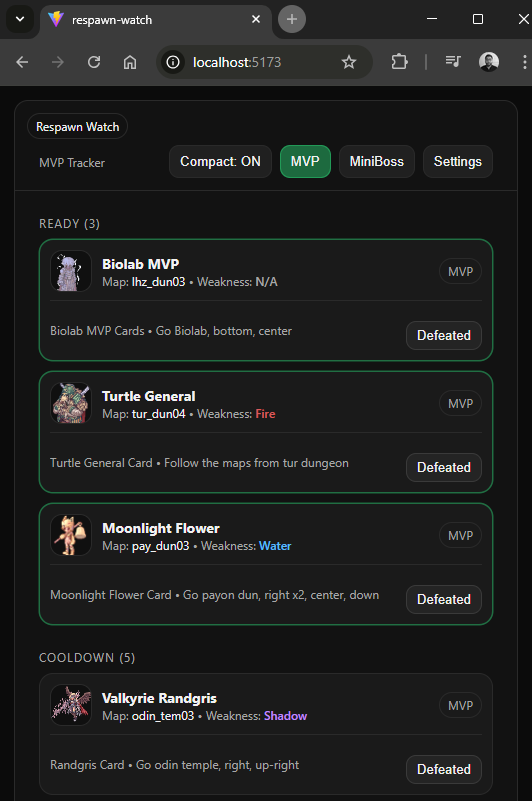
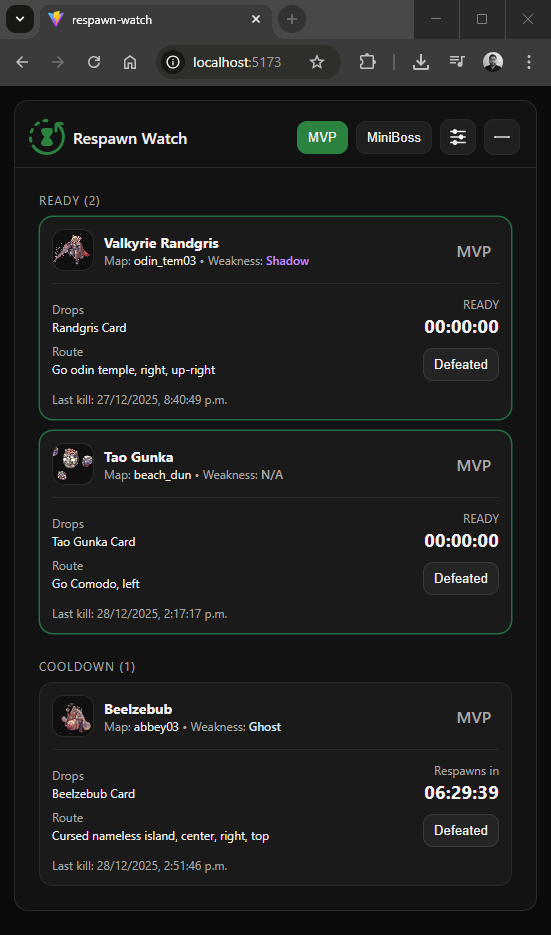
fix: topbar adjustments

diff --git a/src/components/Tabs.jsx b/src/components/Tabs.jsx
@@ -6,8 +6,8 @@ export default function Tabs({ active, onChange }) {
       className={`btn ${icon ? "iconBtn" : ""}`}
       onClick={() => onChange(id)}
       style={{
-        background: active === id ? "var(--ready)" : "#202020",
-        borderColor: active === id ? "var(--ready)" : "var(--border)",
+        background: active === id ? "var(--bReady)" : "#202020",
+        borderColor: active === id ? "var(--bReady)" : "var(--border)",
       }}
       title={label}
     >

diff --git a/src/index.css b/src/index.css
@@ -6,7 +6,8 @@
   --muted: #a8a8a8;
   --text: #f2f2f2;
   --border: #2a2a2a;
-  --ready: #2a812a;
+  --bReady: #2C823F;
+  --ready: rgba(43, 213, 118, .45);
   --active: #6D248C;
   --warn: #f2c94c;
 }

diff --git a/README.md b/README.md
@@ -55,7 +55,7 @@ Timers are recalculated automatically even after restarting the app.
 ### 🎮 Compact Mode (Farm Mode)
 - Toggle compact mode for intensive farming sessions
 
-### ⚙ Settings Tab (Mob-Level Control)
+### ⚙ Settings (Mob-Level Control)
 - Quickly Enable / disable only what you are farming today
 
 ## **Screens**
